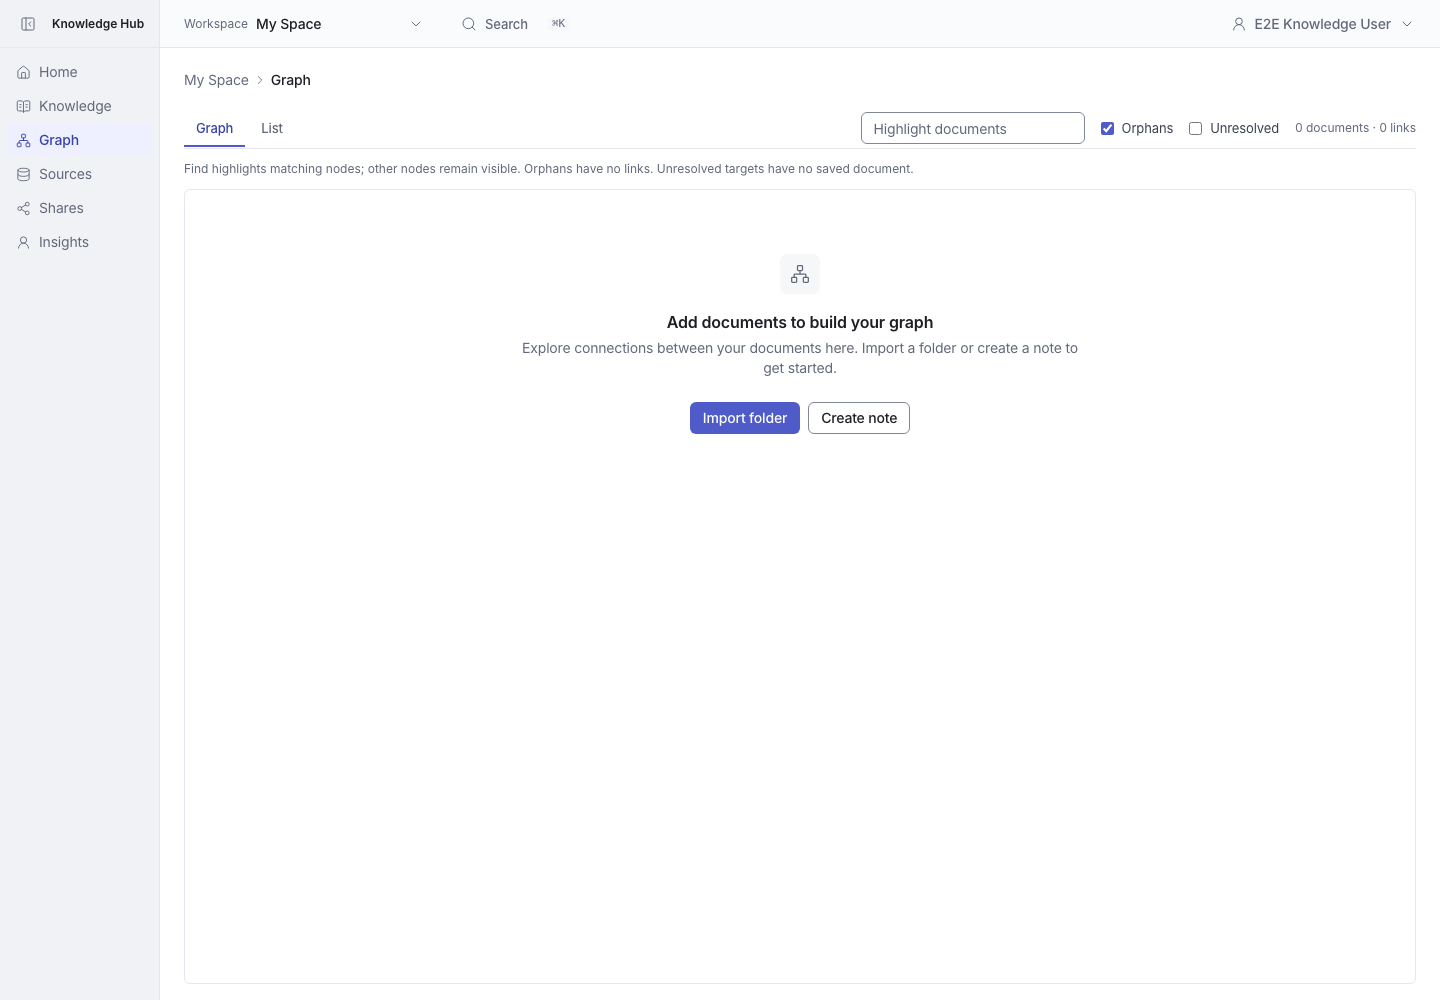
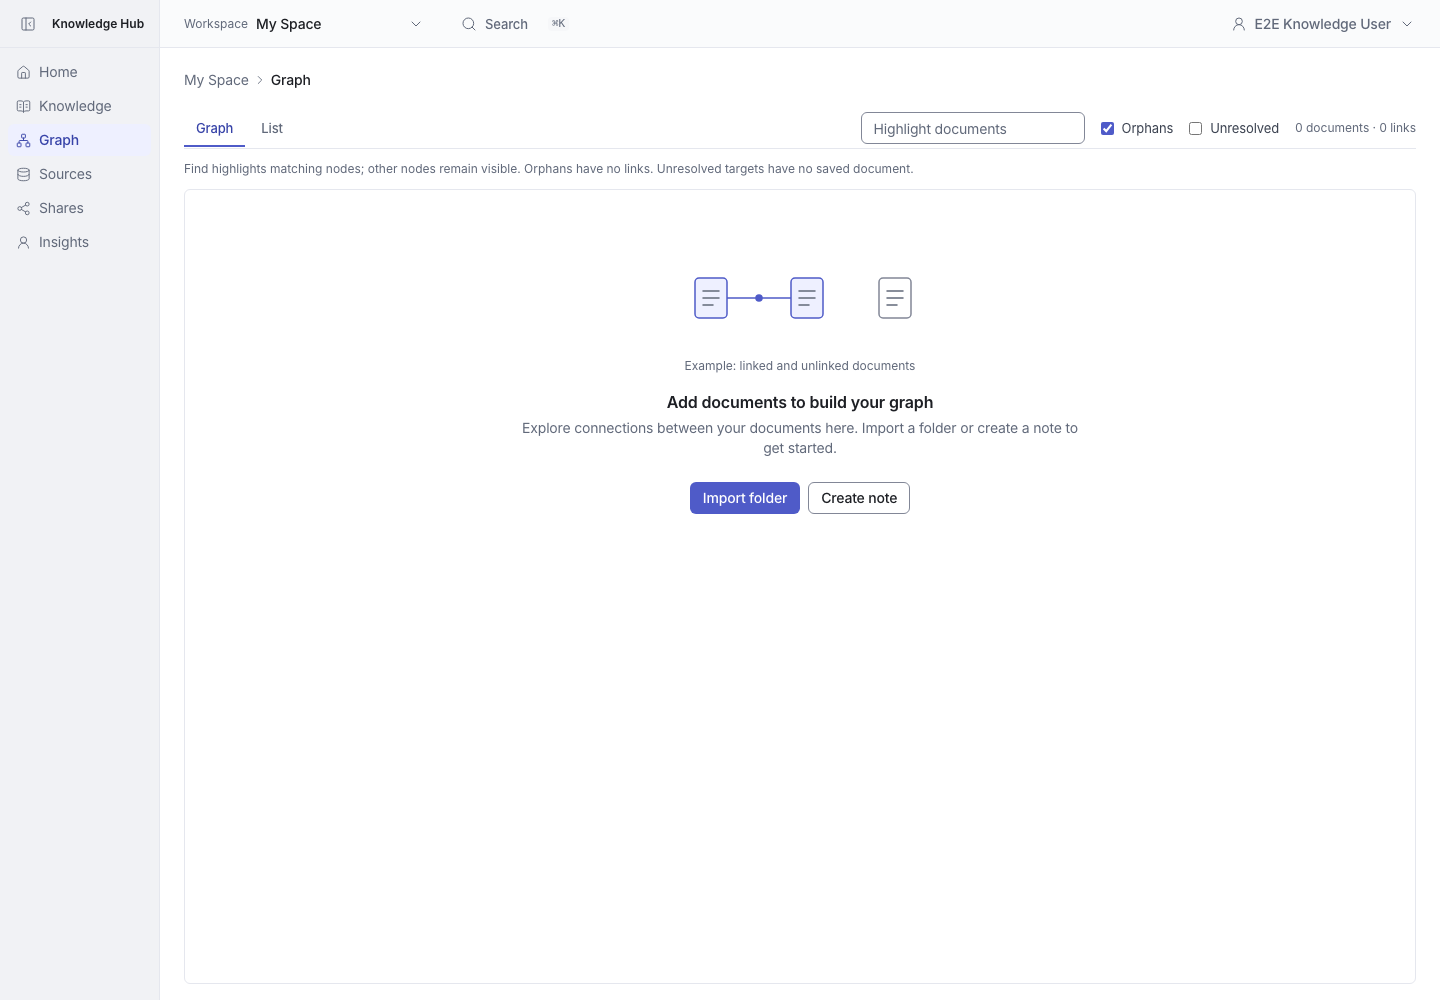
feat: illustrate graph and agent context empty states

Changed region(s): [[0.375, 0.279, 0.75, 0.527]]

diff --git a/src/components/knowledge/onboarding-illustration.tsx b/src/components/knowledge/onboarding-illustration.tsx
@@ -1,0 +1,26 @@
+/** Small illustrative examples, never a projection of workspace data. */
+export function OnboardingIllustration({ kind }: { kind: "graph" | "context" }) {
+  return <figure className="w-64 max-w-full">
+    <svg viewBox="0 0 256 96" className="h-24 w-full" aria-hidden="true" focusable="false" fill="none" strokeWidth="1.5" strokeLinecap="round" strokeLinejoin="round">
+      {kind === "graph" ? <>
+        <path d="M55 44H119" className="stroke-kh-primary" />
+        {[23, 119, 207].map((x, index) => <g key={x}>
+          <rect x={x} y="24" width="32" height="40" rx="4" className={index === 2 ? "fill-kh-bg stroke-kh-border-strong" : "fill-kh-bg-selected stroke-kh-primary"} />
+          <path d={`M${x + 8} 37h16 M${x + 8} 44h16 M${x + 8} 51h10`} className="stroke-kh-text-muted" />
+        </g>)}
+        <circle cx="87" cy="44" r="3" className="fill-kh-primary stroke-kh-primary" />
+      </> : <>
+        <rect x="8" y="12" width="88" height="72" rx="6" className="fill-kh-bg stroke-kh-border-strong" />
+        {[28, 48, 68].map((y, index) => <g key={y}>
+          <rect x="19" y={y - 5} width="10" height="10" rx="2" className={index < 2 ? "fill-kh-bg-selected stroke-kh-primary" : "stroke-kh-border-strong"} />
+          {index < 2 ? <path d={`M21 ${y}l2 2 4-4`} className="stroke-kh-primary" /> : null}
+          <path d={`M37 ${y}h45`} className="stroke-kh-text-muted" />
+        </g>)}
+        <path d="M109 48h28m-5-5 5 5-5 5" className="stroke-kh-primary" />
+        <rect x="150" y="12" width="98" height="72" rx="6" className="fill-kh-bg stroke-kh-border-strong" />
+        <path d="M163 27h28m-28 12h70m-70 8h58m-58 14h70m-70 8h44" className="stroke-kh-text-muted" />
+      </>}
+    </svg>
+    <figcaption className="mt-2 text-caption text-kh-text-muted">{kind === "graph" ? "Example: linked and unlinked documents" : "Example: selected documents → Markdown preview"}</figcaption>
+  </figure>;
+}

diff --git a/src/components/knowledge/graph-explorer.tsx b/src/components/knowledge/graph-explorer.tsx
@@ -1,5 +1,6 @@
 "use client";
 
+import { OnboardingIllustration } from "./onboarding-illustration";
 import { Network } from "lucide-react";
 import { EmptyState } from "@/components/ui/empty-state";
 import { WorkspaceContentActions } from "./workspace-content-actions";
@@ -161,7 +162,7 @@ export function GraphExplorer({
       >
         {data.nodes.length === 0 ? (
           <div data-graph-empty className="px-3">
-            <EmptyState icon={Network} title={hasFilters ? "No documents match these filters" : "Add documents to build your graph"} description={hasFilters ? "Reset the graph filters to include documents without links and other sources." : "Explore connections between your documents here. Import a folder or create a note to get started."} action={hasFilters ? <Button variant="secondary" onClick={() => change({ sourceId: null, orphans: true, unresolved: false, focusId: null })}>Show all documents</Button> : <WorkspaceContentActions workspaceId={workspaceId} />} />
+            <EmptyState icon={Network} illustration={!hasFilters ? <OnboardingIllustration kind="graph" /> : undefined} title={hasFilters ? "No documents match these filters" : "Add documents to build your graph"} description={hasFilters ? "Reset the graph filters to include documents without links and other sources." : "Explore connections between your documents here. Import a folder or create a note to get started."} action={hasFilters ? <Button variant="secondary" onClick={() => change({ sourceId: null, orphans: true, unresolved: false, focusId: null })}>Show all documents</Button> : <WorkspaceContentActions workspaceId={workspaceId} />} />
           </div>
         ) : filters.view === "list" ? (
           <div className="h-full overflow-y-auto">

diff --git a/src/components/knowledge/agent-context-builder.tsx b/src/components/knowledge/agent-context-builder.tsx
@@ -1,5 +1,6 @@
 "use client";
 
+import { OnboardingIllustration } from "./onboarding-illustration";
 import { FileText, Search } from "lucide-react";
 import { EmptyState } from "@/components/ui/empty-state";
 import { WorkspaceContentActions } from "./workspace-content-actions";
@@ -46,7 +47,7 @@ export function AgentContextBuilder({ workspaceId, documents, initialDocumentId 
   const normalized = query.trim().toLocaleLowerCase();
   const matches = documents.filter(d => [d.title, d.sourceName, d.sourcePath].some(value => value?.toLocaleLowerCase().includes(normalized)));
   const visible = matches.slice(0, 100);
-  if (!documents.length) return <EmptyState icon={FileText} title="Add documents to prepare AI context" description="Turn saved documents into Markdown your AI agent can use. Import a folder or create a note, then select documents and prepare a preview." action={<WorkspaceContentActions workspaceId={workspaceId} />} />;
+  if (!documents.length) return <EmptyState icon={FileText} illustration={<OnboardingIllustration kind="context" />} title="Add documents to prepare AI context" description="Turn saved documents into Markdown your AI agent can use. Import a folder or create a note, then select documents and prepare a preview." action={<WorkspaceContentActions workspaceId={workspaceId} />} />;
   return <div className="space-y-4">
     <p className="text-body text-kh-text-secondary">Select up to 20 saved documents to prepare Markdown for your Agent. Maximum 256 KiB. Review the content before copying.</p>
     <div className="grid items-start gap-6 lg:grid-cols-[minmax(0,1fr)_18rem]">

diff --git a/src/components/ui/empty-state.tsx b/src/components/ui/empty-state.tsx
@@ -20,18 +20,20 @@ export function EmptyState({
   description,
   action,
   hint,
+  illustration,
 }: {
   icon: LucideIcon;
   title: string;
   description: ReactNode;
   action?: ReactNode;
   hint?: ReactNode;
+  illustration?: ReactNode;
 }) {
   return (
     <div className="kh-reading-column flex flex-col items-center py-16 text-center">
-      <span className="flex h-10 w-10 items-center justify-center rounded-lg bg-kh-bg-subtle text-kh-text-muted">
+      {illustration ?? <span className="flex h-10 w-10 items-center justify-center rounded-lg bg-kh-bg-subtle text-kh-text-muted">
         <Icon aria-hidden="true" className="h-5 w-5" />
-      </span>
+      </span>}
       <h2 className="mt-4 text-title font-semibold text-kh-text">{title}</h2>
       <p className="mt-1 max-w-panel text-body text-kh-text-muted">{description}</p>
       {action ? <div className="mt-6 flex flex-wrap justify-center gap-2">{action}</div> : null}

diff --git a/docs/ui-comparisons/empty-state-guidance/README.md b/docs/ui-comparisons/empty-state-guidance/README.md
@@ -4,12 +4,14 @@ New users can enter any major page and find its purpose and next action. Existin
 
 - **Knowledge:** explain browsing and reading; prioritize import in My Space, with note creation as the secondary action. Empty sources explain review/apply and link to Sources.
 - **Search:** distinguish an empty personal workspace from a no-hit query. Remove filters while preserving the keyword and scope. Errors remain visible, and successful live search results do not fetch another document list.
-- **Copy for Agent:** explain the select → prepare → review → copy flow. When a document filter has no matches, Clear search retains selected documents.
-- **Graph:** distinguish no documents, documents without links, and filters excluding all documents. Explain `[[Document title]]`, saving notes or reimporting files, and offer an existing document to open.
+- **Copy for Agent:** a small SVG example shows selected documents becoming a Markdown preview. Explain the select → prepare → review → copy flow. When a document filter has no matches, Clear search retains selected documents.
+- **Graph:** a small SVG example shows linked and unlinked documents. Distinguish no documents, documents without links, and filters excluding all documents. Explain `[[Document title]]`, saving notes or reimporting files, and offer an existing document to open.
 - **Shares:** guide first share creation from a document; filtered empty results offer Show all shares.
 - **Insights:** explain what produces statistics. Pending previews lead to review/apply; archived-only content leads to archived articles. A completely empty space avoids a dashboard of zero-value charts.
 - **Import result:** explain the next step and promote the existing Read this update link after a successful import.
 - **Home:** Getting started in Home actions reopens the guide using the latest dismissal version, preserving completion. Users who create a note first can follow read/search/context links before importing a folder.
+
+The two diagrams use existing semantic colors and are explicitly labeled as examples. They appear only for first-use states; filtered zero-result states retain compact icons.
 
 Baseline screenshots use main commit `19e50725` in a separate worktree. Updated screenshots use the new-user browser test in an isolated database and production build. Viewports: desktop 1440 × 1000; mobile 390 × 844. The tests check mobile horizontal overflow.
 
@@ -43,3 +45,5 @@ Baseline screenshots use main commit `19e50725` in a separate worktree. Updated 
 | Successful import | ![Import result before](before-import-next-step.png) | ![Import next step](after-import-next-step.png) |
 
 Validation: typecheck and lint passed; 1770 unit tests passed; production build and 20 browser tests passed, covering the six first-use pages, guidance hide/reopen with progress preserved, import-to-reading, no-hit recovery, preserved context selections, graph distinctions, live and no-JavaScript search, saved searches, and access denial. The design detector reported no findings.
+
+Illustration update validation: typecheck and lint passed; 13 affected unit tests passed; production build and 2 browser flows passed, including first-use desktop/mobile captures and retained search/context/guidance behavior.
